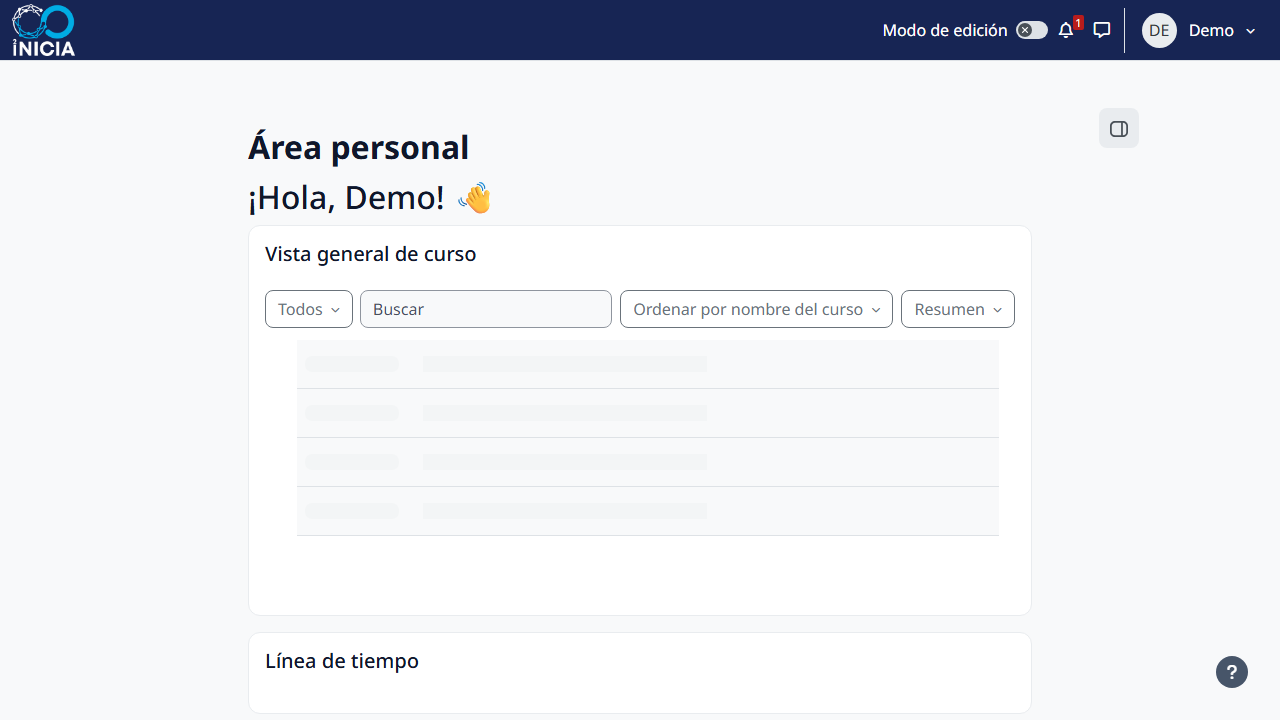
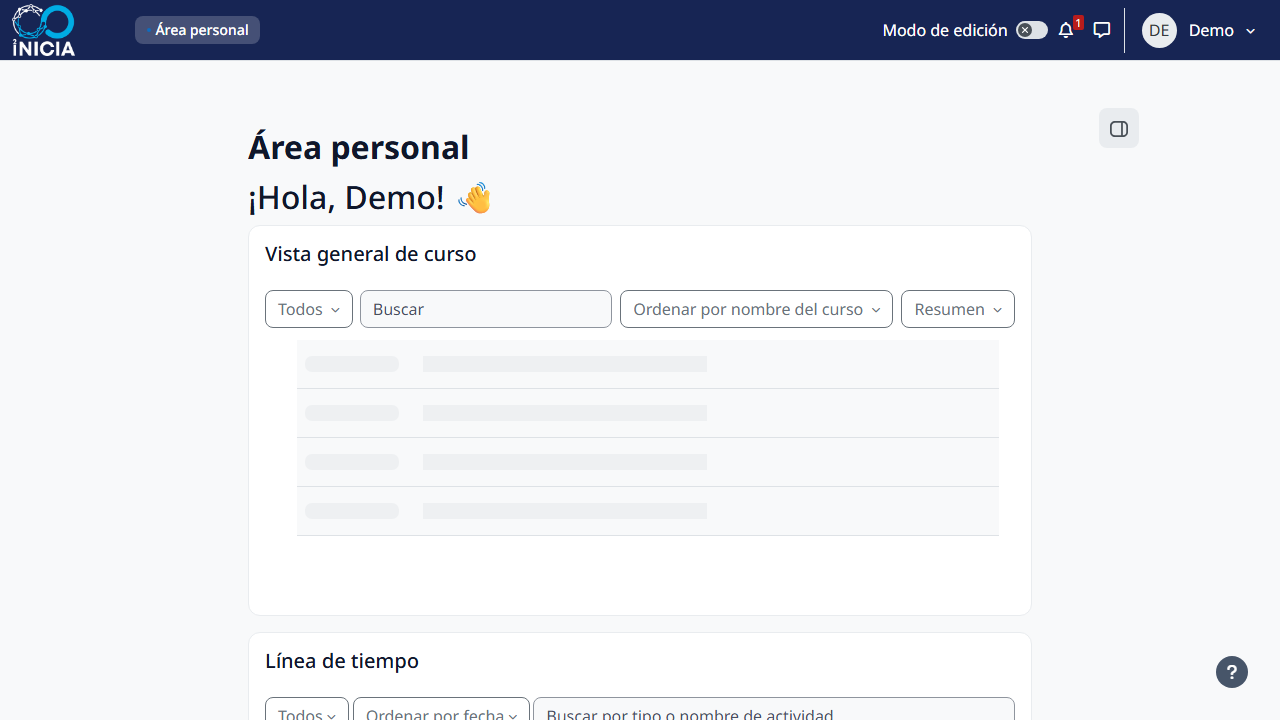
docs: record the integration of the session fix into the Android branch and its validation

Changed region(s): [[0.2812, 0.9778, 0.6562, 1.0], [0.0938, 0.0, 0.2188, 0.0611], [0.2188, 0.9778, 0.25, 1.0]]

diff --git a/documentation/12-plan-de-desarrollo.md b/documentation/12-plan-de-desarrollo.md
@@ -31,7 +31,7 @@ Este plan reemplaza al de la sección 9 de la [auditoría](10-auditoria-tecnica.
 | 3 | Frontend (rama `refactor/frontend-modular-architecture`): grupos de rutas, carpetas por funcionalidad, componentes compartidos, cliente de API único, paneles por rol, tablas paginadas en el backend, accesibilidad, SEO y pruebas del portal. Misma identidad visual y mismas URL | Terminada e integrada en `main` (`1a4c9dc`, 24/11/2026) ([14-refactorizacion-frontend.md](14-refactorizacion-frontend.md)) |
 | 4 | Android (rama `refactor/android-modular-architecture`): MVVM por funcionalidades, navegación con tipos, modelo de errores, caché cifrada con dueño y caducidad, notificaciones en Android 8 a 12, accesibilidad, lint de 35 a 16 avisos (0 errores; quedan solo versiones disponibles y `targetSdk`), 56 pruebas unitarias y 12 instrumentadas | Implementada en la rama (etapas 4.1 a 4.8); probada en un teléfono físico en la Fase 4.9, que encontró un defecto crítico corregido en la 4.10. Pendiente de tu autorización para integrarla a `main` ([15-refactorizacion-android.md](15-refactorizacion-android.md)) |
 | **4.10** | **Corrección crítica previa a la integración** (rama `fix/cross-account-session-isolation`, desde la Fase 4.9): Moodle reutilizaba la sesión de otra cuenta. Comprobante firmado de un solo uso para entrar al campus, cierre coordinado en Keycloak y Moodle desde el backend (`POST /api/v1/me/logout`), cierre pendiente con reintento, credenciales obligatorias, `offline_access` conservado y segunda contraseña eliminada (R5), A17, accesibilidad y diagnóstico de PostgreSQL | Terminada en su rama y verificada en el teléfono físico; pendiente de tu autorización para integrarla en la rama de Android y en `main` ([15b-correccion-critica-sesiones.md](15b-correccion-critica-sesiones.md)) |
-| **4.11** | **Validación final de seguridad SSO y accesibilidad** (misma rama): comprobante del campus vinculado al navegador (ya no transferible), revocación de comprobantes al cerrar sesión, reintento del cierre en Keycloak (sin nombre de la cuenta anterior), registros sin comprobantes, TalkBack real en el teléfono y validación final | Terminada en su rama; ver la integración en la rama de Android en el documento 15b ([15b-correccion-critica-sesiones.md](15b-correccion-critica-sesiones.md), sección Fase 4.11) |
+| **4.11** | **Validación final de seguridad SSO y accesibilidad** (misma rama): comprobante del campus vinculado al navegador (ya no transferible), revocación de comprobantes al cerrar sesión, reintento del cierre en Keycloak (sin nombre de la cuenta anterior), registros sin comprobantes, TalkBack real en el teléfono y validación final | Terminada e integrada, junto con la 4.10, en `refactor/android-modular-architecture` (`9d8fbd5`, 25/11/2026). Pendiente de tu autorización para integrar la Fase 4 en `main` ([15b-correccion-critica-sesiones.md](15b-correccion-critica-sesiones.md), sección Fase 4.11) |
 | 5 | Integraciones y seguridad: revisión integral de Moodle y Keycloak, permisos, auditoría de la sincronización, sesiones y cuentas administrativas. Incluye, de la Fase 4: rotación estricta del *refresh token* y cierre de la app durante la renovación (R4, ya falla de forma segura) y `id_token_hint` en el cierre de sesión (R6). De la Fase 4.11: cierre de Moodle solo del dispositivo actual y opción de cerrar en todos (documento 15b, 4.11.8 y 4.11.16). R5 quedó resuelto en la 4.10; el comprobante vinculado y el nombre anterior en Keycloak, en la 4.11 | Pendiente |
 | **5.5** | **Calificaciones** con Moodle como fuente oficial (ver abajo) | Pendiente; solo documentada |
 | 6 | Infraestructura: PostgreSQL entró en recuperación bajo carga en DEV (documento 15, sección 21; causa no determinable, recomendaciones en el documento 15b, sección 14); script de servicios que confirme el puerto y el proceso antes de detenerlo; arranque en frío de Moodle (calentamiento tras purgar cachés, *healthcheck* de disponibilidad, primer ciclo de `moodle-cron`; ver la sección 15 del documento 14); Dockerfiles del portal y del backend; entornos DEV, STAGING y PRODUCTION; Keycloak en modo producción; HTTPS con Nginx; redes privadas; respaldos; secretos; monitoreo y logs | Pendiente |

diff --git a/documentation/15b-correccion-critica-sesiones.md b/documentation/15b-correccion-critica-sesiones.md
@@ -691,9 +691,37 @@ Ejecutados sobre el código final de la rama:
 | `cdb7b13` | E2E: pruebas de aislamiento con el flujo vinculado; fallas de servicios 22 de 22 |
 | `842fc82` | Android: pestaña o deep link a una pestaña ya abierta vuelve a su raíz |
 | `c533ca7` | Moodle: el registro de accesos omite la consulta de `sso.php` |
-| Commit de documentación | Esta sección, documentos 04, 05, 12 y 15, inventario de la API y evidencias |
+| `2822a75` | Esta sección, documentos 04, 05, 12 y 15, inventario de la API y evidencias |
+| `9d8fbd5` | Integración (`--no-ff`) de `fix/cross-account-session-isolation` en `refactor/android-modular-architecture` |
 
 No se reescribió el historial ni se subió nada a remotos.
+
+### Integración en la rama de Android
+
+Se cumplieron los criterios de la autorización condicionada:
+- nadie entra a Moodle con la identidad de otra persona;
+- el enlace transferido no suplanta a su dueño;
+- el cierre interrumpido es seguro;
+- los comprobantes pendientes se invalidan;
+- las pruebas pasan;
+- el teléfono funciona;
+- TalkBack se probó de verdad;
+- no quedan defectos críticos.
+
+Por eso se integró la rama de corrección en `refactor/android-modular-architecture` con un *merge* `--no-ff` (`9d8fbd5`), sin reescribir el historial. El árbol resultante es idéntico al de la rama de corrección.
+
+**Validación en la rama de Android:**
+
+| Conjunto | Resultado |
+|---|---|
+| Backend | 60 unitarias, 8 de integración, 55 de contratos y `typecheck` correctos |
+| Portal | 9 + 50 pruebas, `typecheck` y ESLint correctos |
+| Android | 76 unitarias, lint con 0 errores y 16 avisos, `assembleDebug` correcto |
+| E2E de seguridad y roles contra los servicios en ejecución | 35 de 35 (comprobante, aislamiento y roles) |
+
+La suite E2E completa (101 de 101) y las instrumentadas (15 de 15) se ejecutaron sobre el mismo árbol.
+
+**La Fase 4 no se integró en `main`, y la Fase 5 no ha comenzado.**
 
 ## 4.11.15 Riesgos residuales
 
